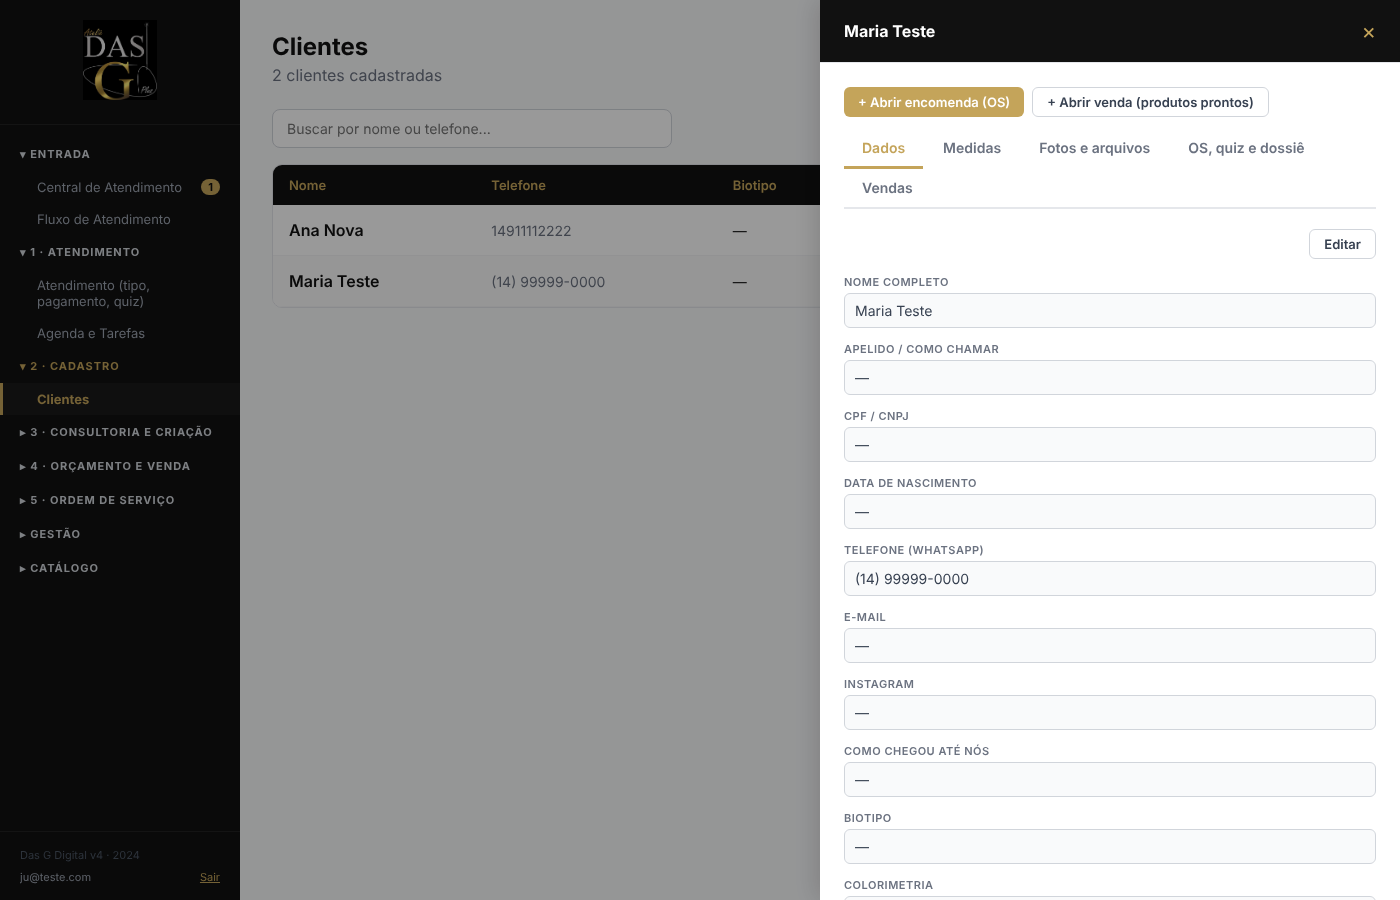
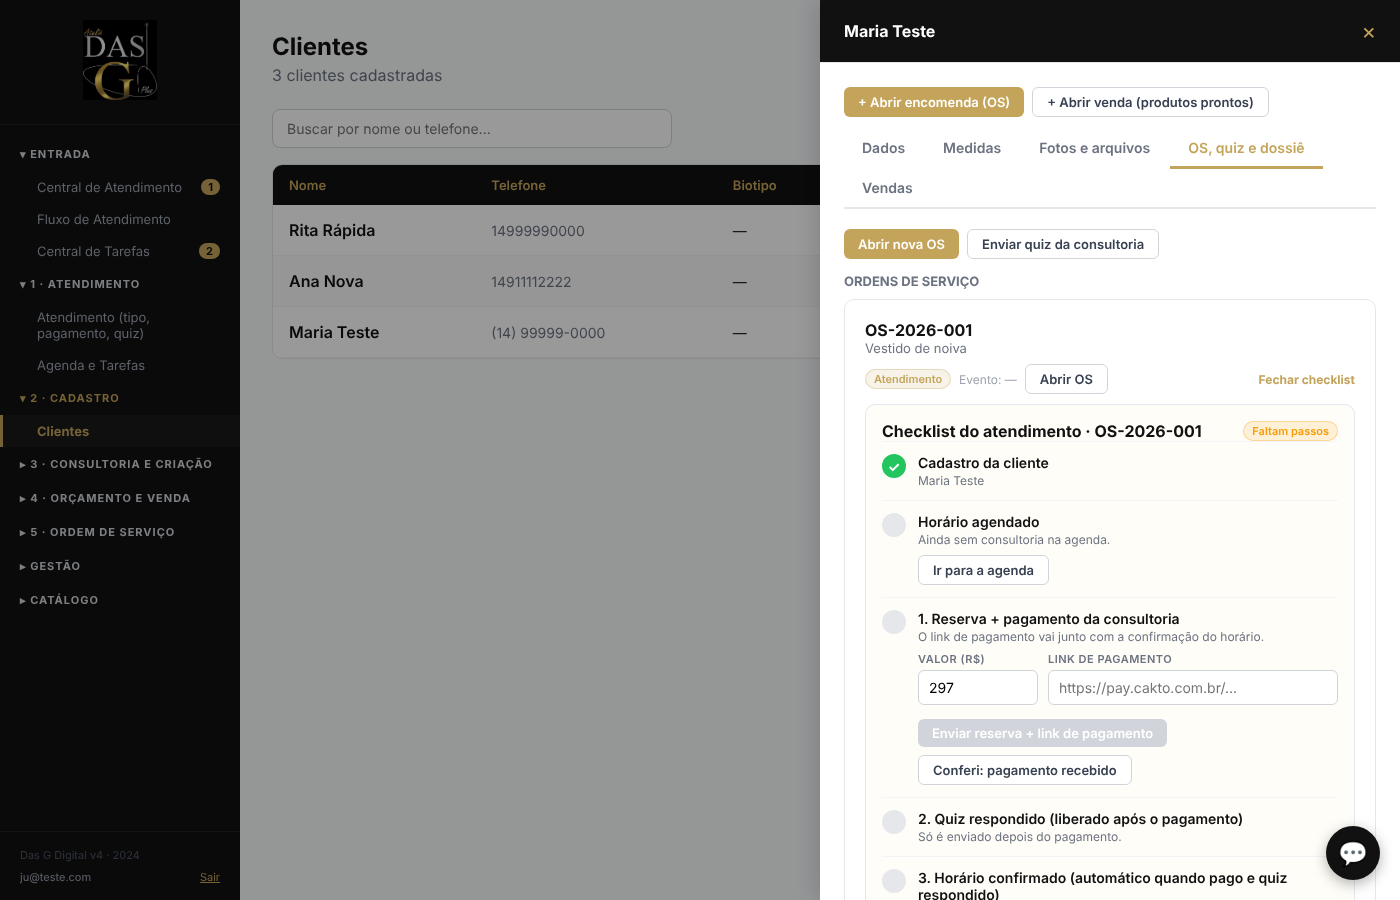
Fluxo do atendimento: reserva+pagamento, quiz após pago, horário confirma com quiz; data nas conversas; tipos novos na agenda
Claude-Session: https://claude.ai/code/session_01FxfKeRtaChjsf2CxAMQed3

diff --git a/src/modulos/ChecklistAtendimento.jsx b/src/modulos/ChecklistAtendimento.jsx
@@ -9,7 +9,7 @@ import { Badge, Card, BtnPrimary, BtnSecondary, Campo, Aviso, fmtDateTime, erroD
 // Cada passo tem o botão que dispara a mensagem pelo WhatsApp e o status fica salvo na OS/agenda/quiz,
 // então aparece na ficha da cliente e na Consultoria.
 
-const TIPOS_CONSULTORIA = ['consultoria_express', 'personal_stylist'];
+const TIPOS_CONSULTORIA = ['completo', 'consultivo', 'orcamento', 'orientacao_tecido', 'cerimonial', 'my_personal_stylist', 'consultoria_express', 'personal_stylist'];
 const primeiroNome = (n) => (n || '').split(' ')[0] || 'tudo bem';
 const brl = (v) => Number(v || 0).toLocaleString('pt-BR', { style: 'currency', currency: 'BRL' });
 
@@ -62,13 +62,25 @@ export default function ChecklistAtendimento({ os, cliente, agenda, quizEnvios, 
     if (!r.ok) throw new Error(r.erro);
   }
 
+  // Reserva + pagamento na MESMA mensagem; quiz só depois do pagamento; horário confirma quando o quiz é respondido.
   const enviarConfirmacao = () => executar('conf', async () => {
     if (!s.ev) throw new Error('Agende o horário primeiro.');
-    const msg = msgConfirmacaoEvento({ nomeCliente: cliente?.nome, tipoLabel: 'consultoria', data: s.ev.data_hora, local: s.ev.local, linkMeet: s.ev.link_meet || meet });
+    const cobra = tipoDaOS(os).cobra;
+    if (cobra && !linkPg.trim()) throw new Error('Cole o link de pagamento: ele vai junto com a confirmação do horário.');
+    if (cobra) await salvarPagamento();
+    const quando = new Date(s.ev.data_hora).toLocaleString('pt-BR', { weekday: 'long', day: '2-digit', month: '2-digit', hour: '2-digit', minute: '2-digit' });
+    const v = cobra && valor !== '' ? ` (investimento de ${brl(valor)})` : '';
+    const msg = cobra
+      ? `Olá, ${primeiroNome(cliente?.nome)}! 💛 Seu horário na Maison Das G está reservado: ${tipoDaOS(os).label} em ${quando}.\n\nPara confirmar, conclua o pagamento${v}:\n${linkPg.trim()}\n\nAssim que o pagamento for confirmado eu te envio o questionário do atendimento e, depois dele respondido, o horário fica confirmado.`
+      : msgConfirmacaoEvento({ nomeCliente: cliente?.nome, tipoLabel: tipoDaOS(os).label.toLowerCase(), data: s.ev.data_hora, local: s.ev.local, linkMeet: s.ev.link_meet || meet });
     await enviar(msg);
-    const { error } = await supabase.from('agenda').update({ confirmacao_enviada_em: new Date().toISOString(), confirmacao_mensagem: msg, status: 'aguardando_confirmacao' }).eq('id', s.ev.id);
+    const { error } = await supabase.from('agenda').update({ confirmacao_enviada_em: new Date().toISOString(), confirmacao_mensagem: msg, status: 'aguardando_confirmacao', lembrete_pagamento_em: new Date().toISOString() }).eq('id', s.ev.id);
     if (error) throw new Error(msgErro(error));
-    return 'Confirmação de horário enviada.';
+    if (cobra) {
+      const r2 = await supabase.from('ordens_servico').update({ pagamento_status: 'link_enviado', pagamento_link_enviado_em: new Date().toISOString() }).eq('id', os.id);
+      if (r2.error) throw new Error(msgErro(r2.error));
+    }
+    return cobra ? 'Reserva do horário + link de pagamento enviados.' : 'Confirmação do horário enviada.';
   });
   const marcarConfirmado = () => executar('conf2', async () => {
     const { error } = await supabase.from('agenda').update({ status: 'confirmado', confirmado_em: new Date().toISOString() }).eq('id', s.ev.id);
@@ -132,33 +144,34 @@ export default function ChecklistAtendimento({ os, cliente, agenda, quizEnvios, 
         {!s.agendado && <BtnSecondary small onClick={() => onNavegar && onNavegar('agenda')}>Ir para a agenda</BtnSecondary>}
       </Passo>
 
-      <Passo ok={s.confirmado} titulo="Cliente confirmou o horário" detalhe={s.ev?.confirmacao_enviada_em ? `Confirmação enviada em ${fmtDateTime(s.ev.confirmacao_enviada_em)}` : 'Confirmação ainda não enviada.'}>
-        {s.agendado && !s.confirmado && (
-          <div style={{ display: 'flex', gap: 8, flexWrap: 'wrap' }}>
-            <BtnPrimary small disabled={semZap || !!ocupado} onClick={enviarConfirmacao}>{ocupado === 'conf' ? 'Enviando...' : s.ev?.confirmacao_enviada_em ? 'Reenviar confirmação' : 'Enviar confirmação'}</BtnPrimary>
-            <BtnSecondary small disabled={!!ocupado} onClick={marcarConfirmado}>Ela confirmou</BtnSecondary>
-          </div>
-        )}
-      </Passo>
+      {tipoDaOS(os).cobra ? (
+        <Passo ok={s.pago} titulo={`1. Reserva + pagamento ${tipoDaOS(os).pagamento}`} detalhe={s.pago ? `Pagamento recebido em ${fmtDateTime(os.pago_em)}` : os.pagamento_status === 'link_enviado' ? `Reserva e link enviados em ${fmtDateTime(os.pagamento_link_enviado_em)}, aguardando o pagamento (o robô cobra a cada 24h)` : 'O link de pagamento vai junto com a confirmação do horário.'}>
+          {!s.pago ? (
+            <div>
+              <div style={{ display: 'grid', gridTemplateColumns: '120px 1fr', gap: 10 }}>
+                <Campo label="Valor (R$)" type="number" value={valor} onChange={setValor} />
+                <Campo label="Link de pagamento" value={linkPg} onChange={setLinkPg} placeholder="https://pay.cakto.com.br/..." />
+              </div>
+              <div style={{ display: 'flex', gap: 8, flexWrap: 'wrap' }}>
+                <BtnPrimary small disabled={semZap || !s.agendado || !!ocupado} onClick={enviarConfirmacao}>{ocupado === 'conf' ? 'Enviando...' : os.pagamento_status === 'link_enviado' ? 'Reenviar reserva + link' : 'Enviar reserva + link de pagamento'}</BtnPrimary>
+                <BtnSecondary small disabled={!!ocupado} onClick={marcarPago}>Conferi: pagamento recebido</BtnSecondary>
+              </div>
+            </div>
+          ) : <BtnSecondary small disabled={!!ocupado} onClick={desfazerPago}>Desfazer pagamento</BtnSecondary>}
+        </Passo>
+      ) : (
+        <Passo ok={!!s.ev?.confirmacao_enviada_em} titulo="1. Confirmação do horário" detalhe={s.ev?.confirmacao_enviada_em ? `Enviada em ${fmtDateTime(s.ev.confirmacao_enviada_em)}` : 'Atendimento sem cobrança.'}>
+          {s.agendado && <BtnPrimary small disabled={semZap || !!ocupado} onClick={enviarConfirmacao}>{ocupado === 'conf' ? 'Enviando...' : s.ev?.confirmacao_enviada_em ? 'Reenviar confirmação' : 'Enviar confirmação'}</BtnPrimary>}
+        </Passo>
+      )}
 
-      {s.precisaQuiz && <Passo ok={s.respondeu} titulo="Quiz respondido" detalhe={s.quiz ? (s.respondeu ? `Respondido em ${fmtDateTime(s.quiz.respondido_em)}` : s.quiz.status === 'enviado' ? `Enviado em ${fmtDateTime(s.quiz.enviado_em)}, aguardando resposta` : 'Link criado, ainda não enviado') : 'Quiz ainda não enviado.'}>
-        {!s.respondeu && <BtnPrimary small disabled={semZap || !!ocupado} onClick={enviarQuiz}>{ocupado === 'quiz' ? 'Enviando...' : s.quiz ? 'Reenviar quiz' : 'Enviar quiz'}</BtnPrimary>}
+      {s.precisaQuiz && <Passo ok={s.respondeu} titulo="2. Quiz respondido (liberado após o pagamento)" detalhe={s.quiz ? (s.respondeu ? `Respondido em ${fmtDateTime(s.quiz.respondido_em)}` : s.quiz.status === 'enviado' ? `Enviado em ${fmtDateTime(s.quiz.enviado_em)}, aguardando resposta (o robô cobra antes do horário)` : 'Link criado, ainda não enviado') : s.pago ? 'Pagamento ok: o robô envia o quiz na próxima rodada.' : 'Só é enviado depois do pagamento.'}>
+        {!s.respondeu && s.pago && <BtnPrimary small disabled={semZap || !!ocupado} onClick={enviarQuiz}>{ocupado === 'quiz' ? 'Enviando...' : s.quiz ? 'Reenviar quiz' : 'Enviar quiz agora'}</BtnPrimary>}
       </Passo>}
 
-      {tipoDaOS(os).cobra && <Passo ok={s.pago} titulo={`Pagamento ${tipoDaOS(os).pagamento}`} detalhe={s.pago ? `Recebido em ${fmtDateTime(os.pago_em)}` : os.pagamento_status === 'link_enviado' ? `Link enviado em ${fmtDateTime(os.pagamento_link_enviado_em)}, aguardando pagamento` : 'Link de pagamento ainda não enviado.'}>
-        {!s.pago ? (
-          <div>
-            <div style={{ display: 'grid', gridTemplateColumns: '120px 1fr', gap: 10 }}>
-              <Campo label="Valor (R$)" type="number" value={valor} onChange={setValor} />
-              <Campo label="Link de pagamento" value={linkPg} onChange={setLinkPg} placeholder="https://pay.cakto.com.br/..." />
-            </div>
-            <div style={{ display: 'flex', gap: 8, flexWrap: 'wrap' }}>
-              <BtnPrimary small disabled={semZap || !!ocupado} onClick={enviarPagamento}>{ocupado === 'pg' ? 'Enviando...' : os.pagamento_status === 'link_enviado' ? 'Reenviar link' : 'Enviar link de pagamento'}</BtnPrimary>
-              <BtnSecondary small disabled={!!ocupado} onClick={marcarPago}>Marcar como pago</BtnSecondary>
-            </div>
-          </div>
-        ) : <BtnSecondary small disabled={!!ocupado} onClick={desfazerPago}>Desfazer pagamento</BtnSecondary>}
-     </Passo>}
+      <Passo ok={s.confirmado} titulo="3. Horário confirmado (automático quando pago e quiz respondido)" detalhe={s.confirmado ? 'Horário confirmado.' : 'Fica confirmado sozinho depois do pagamento e do quiz.'}>
+        {s.agendado && !s.confirmado && <BtnSecondary small disabled={!!ocupado} onClick={marcarConfirmado}>Confirmar manualmente</BtnSecondary>}
+      </Passo>
 
       <Passo ok={!!os.meet_enviado_em} titulo="Link da videoconferência" detalhe={os.meet_enviado_em ? `Enviado em ${fmtDateTime(os.meet_enviado_em)}` : 'Ainda não enviado.'}>
         <Campo label="Link (Meet/Zoom)" value={meet} onChange={setMeet} placeholder="https://meet.google.com/..." />

diff --git a/src/modulos/Central.jsx b/src/modulos/Central.jsx
@@ -1,4 +1,4 @@
-import { useEffect, useMemo, useRef, useState } from 'react';
+import React, { useEffect, useMemo, useRef, useState } from 'react';
 import { supabase } from '../lib/supabaseClient.js';
 import { enviarWhatsApp, whatsappConfigurado } from '../lib/whatsapp.js';
 import { enviarMeta, metaConfigurado } from '../lib/meta.js';
@@ -10,6 +10,8 @@ const digitos = (t) => String(t || '').replace(/\D/g, '');
 const mesmoTel = (a, b) => { const x = digitos(a), y = digitos(b); return x.length >= 8 && y.length >= 8 && x.slice(-9) === y.slice(-9); };
 const msgErro = (e) => erroDeSchema(e) ? 'Falta aplicar a migração 20261102000000 no Supabase (tabela/coluna ainda não existe). ' + e.message : (e.message || String(e));
 const hora = (iso) => new Date(iso).toLocaleTimeString('pt-BR', { hour: '2-digit', minute: '2-digit' });
+const dataCurta = (iso) => new Date(iso).toLocaleDateString('pt-BR', { day: '2-digit', month: '2-digit', year: '2-digit' });
+const dataDia = (iso) => { const d = new Date(iso), h = new Date(), o = new Date(Date.now() - 86400000); const igual = (a, b) => a.toDateString() === b.toDateString(); return igual(d, h) ? 'Hoje' : igual(d, o) ? 'Ontem' : d.toLocaleDateString('pt-BR', { weekday: 'long', day: '2-digit', month: 'long' }); };
 
 const CANAIS = [
   { id: 'whatsapp', nome: 'WhatsApp', cor: '#25D366', icone: '💬' },
@@ -251,7 +253,7 @@ export default function Central({ conversas, leads, agenda, tarefas, clientes, o
               <div style={{ display: 'flex', flexDirection: 'column', gap: 8 }}>
                 {lista(conversas.filter(c => c.nao_lidas > 0).slice(0, 6).map(c => (
                   <div key={c.id} onClick={() => { setCanalSel(c.canal || 'whatsapp'); setAba('conversas'); setConvSel(c); }} style={{ cursor: 'pointer', padding: '8px 10px', background: '#fef9f0', borderRadius: 6 }}>
-                    <div style={{ fontWeight: 600, fontSize: 13 }}>{c.nome} <span style={{ color: '#9ca3af', fontWeight: 400 }}>· {c.tempo}</span></div>
+                    <div style={{ fontWeight: 600, fontSize: 13 }}>{c.nome} <span style={{ color: '#9ca3af', fontWeight: 400 }}>· {c.ultima_em ? dataCurta(c.ultima_em) + ' ' + hora(c.ultima_em) : c.tempo}</span></div>
                     <div style={{ fontSize: 12, color: '#6b7280', whiteSpace: 'nowrap', overflow: 'hidden', textOverflow: 'ellipsis' }}>{c.ultima_msg}</div>
                   </div>
                 )), 'Tudo respondido.')}
@@ -304,7 +306,7 @@ export default function Central({ conversas, leads, agenda, tarefas, clientes, o
                     <div style={{ display: 'flex', justifyContent: 'space-between', alignItems: 'center', marginBottom: 3 }}>
                       <span style={{ fontWeight: 700, fontSize: 14 }}><span title={iconeCanal(c.canal).nome} style={{ marginRight: 6 }}>{iconeCanal(c.canal).icone}</span>{c.nome}</span>
                       <span style={{ display: 'flex', gap: 6, alignItems: 'center' }}>
-                        <span style={{ fontSize: 11, color: '#9ca3af' }}>{c.tempo}</span>
+                        <span style={{ fontSize: 11, color: '#9ca3af' }} title={c.ultima_em ? dataCurta(c.ultima_em) + ' ' + hora(c.ultima_em) : ''}>{c.ultima_em ? dataCurta(c.ultima_em) + ' · ' + hora(c.ultima_em) : c.tempo}</span>
                         {c.nao_lidas > 0 && <span style={{ background: '#c4a45a', color: '#fff', borderRadius: 10, padding: '1px 7px', fontSize: 11, fontWeight: 700 }}>{c.nao_lidas}</span>}
                       </span>
                     </div>
@@ -342,15 +344,18 @@ export default function Central({ conversas, leads, agenda, tarefas, clientes, o
 
                 <div style={{ background: '#f9fafb', borderRadius: 8, padding: 14, minHeight: 220, maxHeight: '45vh', overflowY: 'auto', display: 'flex', flexDirection: 'column', gap: 8 }}>
                   {mensagens.length === 0 && <div style={{ color: '#9ca3af', fontSize: 14 }}>Sem mensagens registradas para este contato.</div>}
-                  {mensagens.map(m => (
-                    <div key={m.id} style={{ alignSelf: m.direcao === 'in' ? 'flex-start' : 'flex-end', background: m.direcao === 'in' ? '#fff' : (m.direcao === 'out_humano' ? '#fef3c7' : '#dcfce7'), border: '1px solid #e5e7eb', borderRadius: 10, padding: '8px 12px', maxWidth: '80%', fontSize: 13, whiteSpace: 'pre-wrap' }}>
+                  {mensagens.map((m, i) => (
+                    <React.Fragment key={m.id}>
+                    {(i === 0 || dataCurta(mensagens[i - 1].created_at) !== dataCurta(m.created_at)) && <div style={{ alignSelf: 'center', fontSize: 11, color: '#6b7280', background: '#e5e7eb', borderRadius: 10, padding: '2px 10px', margin: '4px 0', textTransform: 'capitalize' }}>{dataDia(m.created_at)}</div>}
+                    <div style={{ alignSelf: m.direcao === 'in' ? 'flex-start' : 'flex-end', background: m.direcao === 'in' ? '#fff' : (m.direcao === 'out_humano' ? '#fef3c7' : '#dcfce7'), border: '1px solid #e5e7eb', borderRadius: 10, padding: '8px 12px', maxWidth: '80%', fontSize: 13, whiteSpace: 'pre-wrap' }}>
                       {m.direcao !== 'in' && <div style={{ fontSize: 10, fontWeight: 700, color: '#6b7280', marginBottom: 2 }}>{m.direcao === 'out_humano' ? 'Você' : 'Júlia (IA)'}</div>}
                       {m.mensagem}
                       {m.direcao === 'in' && m.tipo === 'comentario' && m.ref_id && (
                         <div><button onClick={() => setAlvoComentario(m)} style={{ marginTop: 4, border: 'none', background: 'none', padding: 0, color: '#c4a45a', fontSize: 11, fontWeight: 700, cursor: 'pointer', textDecoration: 'underline' }}>Responder este comentário</button></div>
                       )}
-                      <div style={{ fontSize: 10, color: '#9ca3af', textAlign: 'right', marginTop: 2 }}>{hora(m.created_at)}</div>
+                      <div style={{ fontSize: 10, color: '#9ca3af', textAlign: 'right', marginTop: 2 }}>{dataCurta(m.created_at)} {hora(m.created_at)}</div>
                     </div>
+                    </React.Fragment>
                   ))}
                   <div ref={fimRef} />
                 </div>

diff --git a/src/modulos/AgendaTarefas.jsx b/src/modulos/AgendaTarefas.jsx
@@ -8,10 +8,16 @@ import { Badge, Card, BtnPrimary, BtnSecondary, BtnDanger, TabBar, Drawer, Campo
 
 // dep = departamento padrão do tipo (a Juliana pode trocar ao criar o evento)
 const TIPOS = {
-  consultoria_express: { label: 'Atendimento (consultoria)', cor: '#c4a45a', dep: 'clientes', meet: true },
-  personal_stylist: { label: 'Personal Stylist', cor: '#8b5cf6', dep: 'clientes', meet: true },
-  teste_colorimetria: { label: 'Teste de colorimetria', cor: '#a855f7', dep: 'clientes', meet: true },
-  orcamento: { label: 'Atendimento de orçamento', cor: '#f97316', dep: 'clientes' },
+  completo: { label: 'Personal Stylist', cor: '#8b5cf6', dep: 'clientes', meet: true },
+  consultivo: { label: 'My Consultora', cor: '#c4a45a', dep: 'clientes', meet: true },
+  orcamento: { label: 'My Orçamento', cor: '#f97316', dep: 'clientes' },
+  orientacao_tecido: { label: 'My Curadoria de Tecidos', cor: '#7c3aed', dep: 'clientes' },
+  cerimonial: { label: 'Stylist Cerimonial', cor: '#be185d', dep: 'clientes' },
+  my_personal_stylist: { label: 'My Personal Stylist', cor: '#6d28d9', dep: 'clientes', meet: true },
+  // tipos antigos: só para eventos já existentes, não aparecem ao criar
+  consultoria_express: { label: 'Atendimento (antigo)', cor: '#c4a45a', dep: 'clientes', meet: true, legado: true },
+  personal_stylist: { label: 'Personal Stylist (antigo)', cor: '#8b5cf6', dep: 'clientes', meet: true, legado: true },
+  teste_colorimetria: { label: 'Teste de colorimetria (antigo)', cor: '#a855f7', dep: 'clientes', meet: true, legado: true },
   entrega: { label: 'Entrega', cor: '#16a34a', dep: 'clientes' },
   retirada_locacao: { label: 'Retirada de locação', cor: '#15803d', dep: 'clientes' },
   devolucao_locacao: { label: 'Devolução de locação', cor: '#65a30d', dep: 'clientes' },
@@ -47,6 +53,7 @@ const DEPARTAMENTOS = {
   financeira: { label: 'Financeira 🔒', curto: 'Financeira', cor: '#0f766e' },
   tissu: { label: 'Das G Tissu (tecidos)', curto: 'Das G Tissu', cor: '#7c3aed' },
 };
+export const TIPOS_ATENDIMENTO_AGENDA = ['completo', 'consultivo', 'orcamento', 'orientacao_tecido', 'cerimonial', 'my_personal_stylist', 'consultoria_express', 'personal_stylist'];
 const depDe = (x) => DEPARTAMENTOS[x?.departamento] ? x.departamento : (TIPOS[x?.tipo]?.dep || 'adm');
 const primeiroTipoDe = (d) => ({ atelie: 'modelagem_corte' })[d] || Object.keys(TIPOS).find(k => TIPOS[k].dep === d) || 'outro';
 // Texto pronto por tipo (padrão do banco: agenda_modelos_msg). {nome} {tipo} {quando} {local} {meet}
@@ -247,7 +254,7 @@ export default function AgendaTarefas({ agenda, tarefas, clientes, os, onRecarre
     if (error) { setSalvando(false); setErro(msgErro(error)); return; }
 
     // agendou uma consultoria? a OS vai para "Agendado" (se ainda estiver antes) e ganha a atividade da etapa
-    if (!evento.id && evento.ordem_servico_id && ['consultoria_express', 'personal_stylist'].includes(evento.tipo)) {
+    if (!evento.id && evento.ordem_servico_id && TIPOS_ATENDIMENTO_AGENDA.includes(evento.tipo)) {
       const o = os.find(x => x.id === evento.ordem_servico_id);
       if (o && o.status_idx < 3) {
         await supabase.from('ordens_servico').update({ status: 'agendamento' }).eq('id', o.id);
@@ -505,7 +512,7 @@ export default function AgendaTarefas({ agenda, tarefas, clientes, os, onRecarre
       {!bloqueado(dep) && aba === 'mensagens' && (
         <div>
           <p style={{ color: '#6b7280', fontSize: 13, marginBottom: 12 }}>Texto pronto de cada tipo de evento. Use {'{nome}'}, {'{tipo}'}, {'{quando}'}, {'{local}'} e {'{meet}'} — o sistema troca pelos dados do evento.</p>
-          {Object.entries(TIPOS).filter(([, t]) => dep === 'todos' || t.dep === dep).filter(([, t]) => !bloqueado(t.dep)).map(([k, t]) => {
+          {Object.entries(TIPOS).filter(([, t]) => !t.legado).filter(([, t]) => dep === 'todos' || t.dep === dep).filter(([, t]) => !bloqueado(t.dep)).map(([k, t]) => {
             const atual = modelosEdit[k] ?? modelos[k]?.texto ?? '';
             return (
               <Card key={k} style={{ marginBottom: 10 }}>
@@ -530,7 +537,7 @@ export default function AgendaTarefas({ agenda, tarefas, clientes, os, onRecarre
             {aviso && <Aviso tipo="ok">{aviso}</Aviso>}
             {evento.id && <div style={{ marginBottom: 14 }}><Badge label={(STATUS_EVENTO[evento.status] || STATUS_EVENTO.agendado).label} color={(STATUS_EVENTO[evento.status] || STATUS_EVENTO.agendado).cor} />{evento.confirmacao_enviada_em && <span style={{ fontSize: 12, color: '#9ca3af', marginLeft: 8 }}>confirmação enviada em {new Date(evento.confirmacao_enviada_em).toLocaleString('pt-BR', { dateStyle: 'short', timeStyle: 'short' })}</span>}</div>}
             <div style={{ display: 'grid', gridTemplateColumns: '1fr 1fr', gap: 10 }}>
-              <Campo label="Tipo" value={evento.tipo} onChange={v => editarEvento({ tipo: v })} options={Object.entries(TIPOS).filter(([, t]) => t.dep === evento.departamento).map(([value, t]) => ({ value, label: t.label }))} />
+              <Campo label="Tipo" value={evento.tipo} onChange={v => editarEvento({ tipo: v })} options={Object.entries(TIPOS).filter(([k, t]) => t.dep === evento.departamento && (!t.legado || k === evento.tipo)).map(([value, t]) => ({ value, label: t.label }))} />
               <Campo label="Agenda (departamento)" value={evento.departamento} onChange={v => editarEvento({ departamento: v })} options={Object.entries(DEPARTAMENTOS).filter(([k]) => !bloqueado(k)).map(([value, d]) => ({ value, label: d.label }))} />
             </div>
             <ClienteRapido clientes={clientes} value={evento.cliente_id} onChange={v => editarEvento({ cliente_id: v, ordem_servico_id: '' })} onRecarregar={onRecarregar} />

diff --git a/src/DasGCRMv4.jsx b/src/DasGCRMv4.jsx
@@ -1567,7 +1567,7 @@ export default function DasGCRM() {
     { titulo: 'Catálogo', ids: ['produtos'] },
   ].map(g => ({ ...g, itens: g.ids.map(id => nav.find(n => n.id === id)).filter(Boolean) }));
 
-  const COR_TIPO_AGENDA = { consultoria_express: '#c4a45a', personal_stylist: '#8b5cf6', prova1: '#ec4899', prova2: '#db2777', prova_final: '#be185d', entrega: '#16a34a', orcamento: '#f97316', reuniao: '#6b7280' };
+  const COR_TIPO_AGENDA = { completo: '#8b5cf6', consultivo: '#c4a45a', orientacao_tecido: '#7c3aed', cerimonial: '#be185d', my_personal_stylist: '#6d28d9', consultoria_express: '#c4a45a', personal_stylist: '#8b5cf6', prova1: '#ec4899', prova2: '#db2777', prova_final: '#be185d', entrega: '#16a34a', orcamento: '#f97316', reuniao: '#6b7280' };
   const agendaDashboard = agenda.map(a => ({ ...a, data: a.data_hora, cliente: clientes.find(c => c.id === a.cliente_id)?.nome || a.titulo || 'Compromisso', cor: COR_TIPO_AGENDA[a.tipo] || '#0ea5e9' }));
 
   const renderPagina = () => {

diff --git a/src/modulos/Consultoria.jsx b/src/modulos/Consultoria.jsx
@@ -114,7 +114,7 @@ export default function Consultoria({ clientes, os, quizEnvios, agenda = [], onR
     setErro('');
     const r = await gerarMeet({ titulo: 'Consultoria · ' + (cli?.nome || ''), inicio: new Date(), duracao_min: 60 });
     if (!r.ok) { aba?.close(); setErro(r.erro); return; }
-    await supabase.from('agenda').insert({ cliente_id: osSel.cliente_id, ordem_servico_id: osSel.id, tipo: 'consultoria_express', titulo: 'Consultoria Express', departamento: 'clientes', data_hora: new Date().toISOString(), duracao_min: 60, link_meet: r.link, status: 'agendado' });
+    await supabase.from('agenda').insert({ cliente_id: osSel.cliente_id, ordem_servico_id: osSel.id, tipo: osSel.tipo_atendimento || 'completo', titulo: 'Atendimento', departamento: 'clientes', data_hora: new Date().toISOString(), duracao_min: 60, link_meet: r.link, status: 'agendado' });
     await onRecarregar();
     if (aba) aba.location.href = r.link; else window.open(r.link, '_blank', 'noopener');
   }
